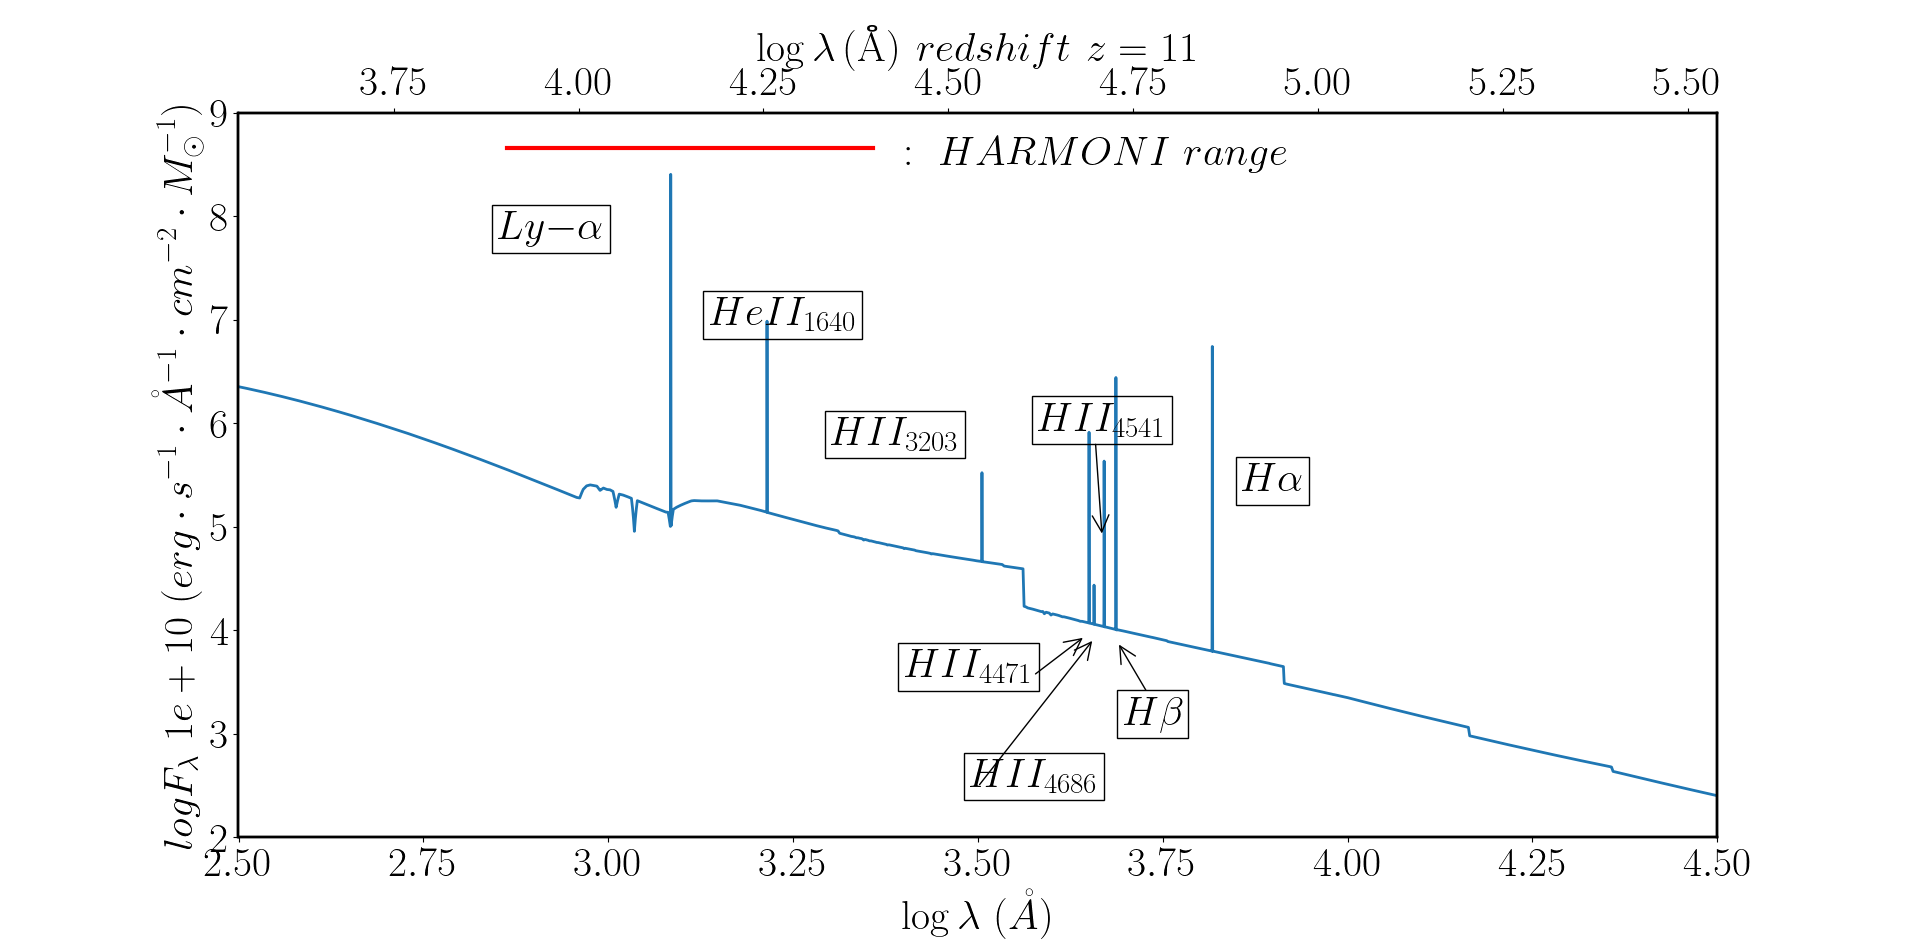
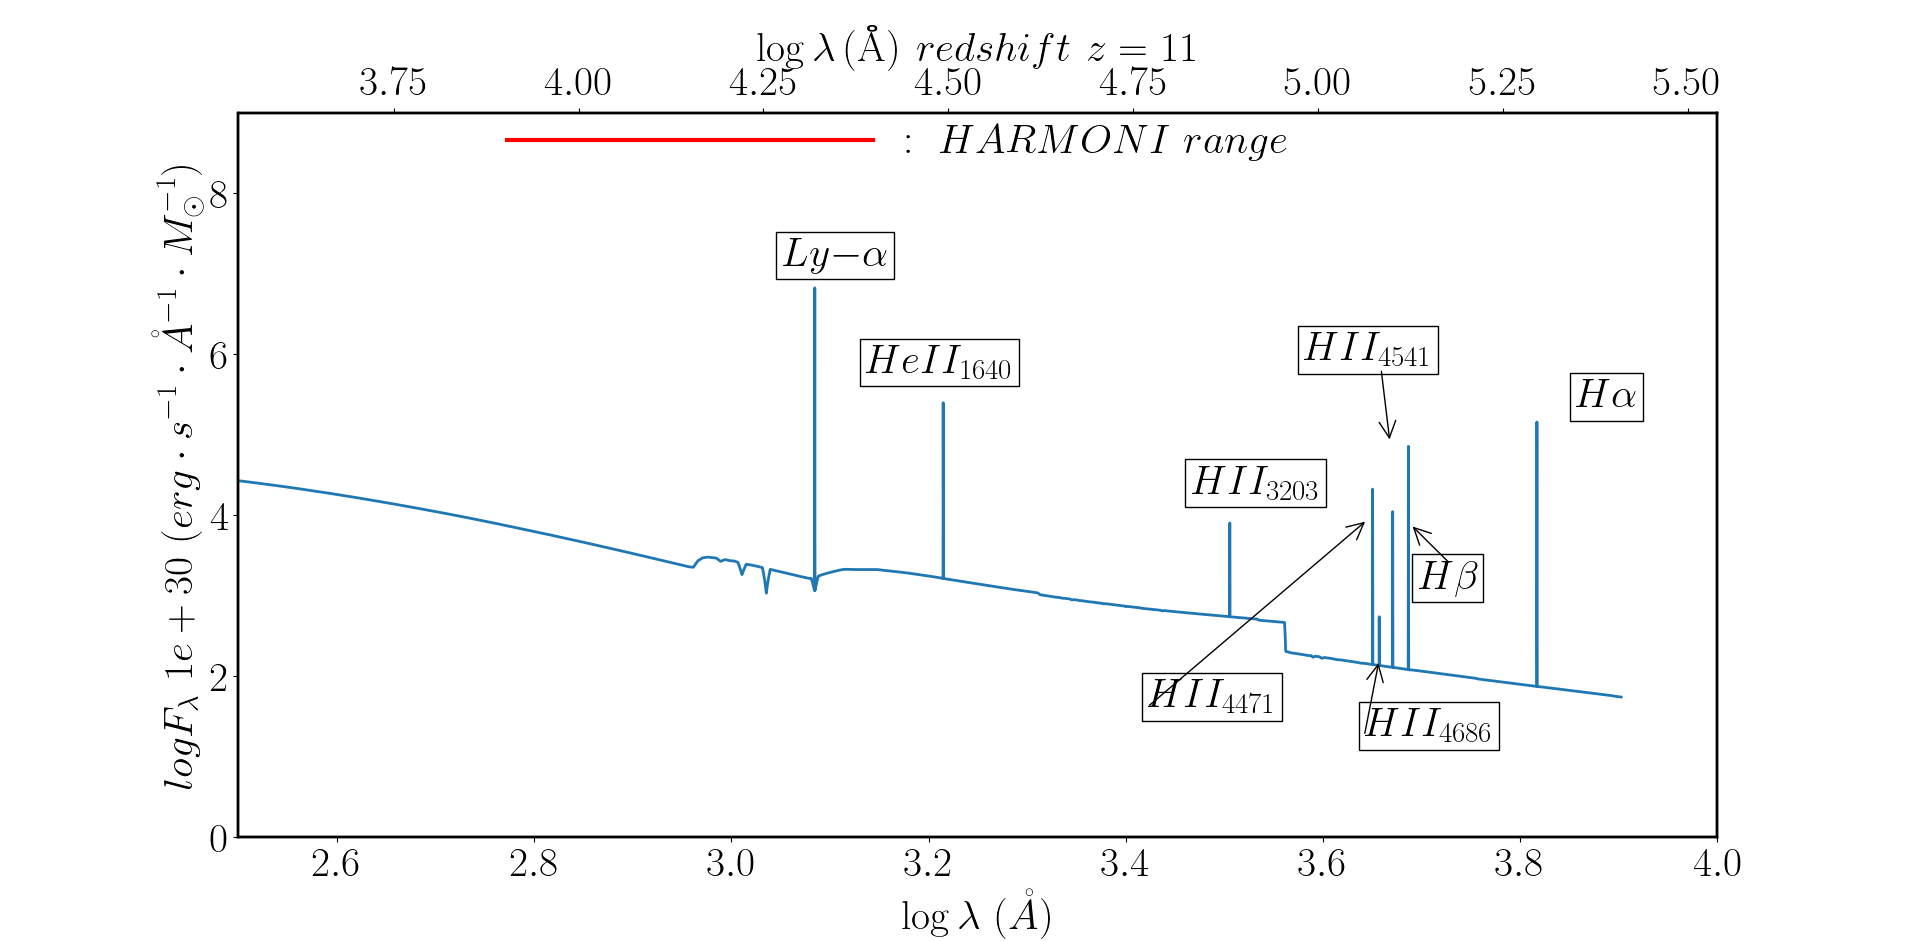
11:38 tuesday
fits done need to sort headers

diff --git a/functions.py b/functions.py
@@ -1,7 +1,7 @@
 # functions.py
 # list of functions used
 
-from modules import np, plt, ScalarMappable, Normalize, ascii, latex, os, cosmo, interpolate, mticker, Table
+from modules import np, plt, ScalarMappable, Normalize, ascii, latex, os, cosmo, interpolate, mticker, Table, fits
 from constants import T_sun, c_m, T_100M, M_sun_kg, G, kb, c, h, pc, AU, d, R_sun, M_sun
 import plotting_params
 
@@ -148,12 +148,12 @@ def blackbody(T):
 
 def interpolate_SED(SED_data, n, z, R):
     if n == 'single':
-        mask = (SED_data["wavelengths"] < 8000)
+        mask = (SED_data["wavelengths"] > 1000) & (SED_data['wavelengths'] < 1800)
         y = SED_data["SED_flux"][mask]
         x = SED_data["wavelengths"][mask]
         resolution = 1500/R
         print(f"Resolution: {resolution}")
-        sampling = resolution/(5)
+        sampling = resolution/(2.3)
         print(f"Sampling pre redshift: {sampling}")
         x_new = np.arange(min(x), max(x), sampling)
         interpolated_wavelengths = interpolate.interp1d(x,y)
@@ -261,44 +261,7 @@ def gaussian_profile(M, R, wavelength, age_log, H_beta, H_lya, H_alpha, H_beta_,
     plt.plot(wavelength, np.log10(flux_HII_1640) - 30)
     plt.plot(wavelength, np.log10(flux_H_lya) - 30)
     plt.ylim(0,7)
-    plt.show()
-
-
-    sigma_gal = [30000, 150000, 300000]
-    data_ = Table()
-    for i in range(len(sigma_gal)):
-        sigma_line = (sigma_gal[i]/c_m) * np.array(lambda_peak_array)
-        print(f"SIGMA LINE: {sigma_line} Angstrom")
-        H_beta_peak_Intensity = (H_beta[0])#/(4*np.pi*(d**2))
-        HeII_1640_peak_intensity = (HeII_1640[0])#/(4*np.pi*(d**2))
-        print(f"H_1640_peak_Intensity: {HeII_1640_peak_intensity}")
-        flux_HII_1640 = []
-        for j in range(len(wavelength)):
-            exponential_5 = np.exp(((wavelength[j] - lambda_peak_array[4])**2)/(-2*(sigma_line[4])**2))
-            flux_H_1640_1 = ((HeII_1640_peak_intensity/(np.sqrt(2*np.pi)*sigma_line[4])) * exponential_5)
-            flux_HII_1640.append(flux_H_1640_1)
-        data_[f'sigma_{sigma_gal[i]}']= np.array(flux_HII_1640)
-    data_['wavelength'] = wavelength
-    ascii.write(data_, f'sigma_check_F_{HeII_1640_peak_intensity}.dat', format='basic', overwrite=True)
-    print("saved file")
-    data_ = Table.read('sigma_check.dat', format='ascii.basic')
-    plt.figure(figsize=(8,5))
-    plt.plot(wavelength, data_['sigma_30000'])
-    plt.plot(wavelength, data_['sigma_150000'])
-    plt.plot(wavelength, data_['sigma_300000'])
-    plt.xlabel('Wavelength [Å]', fontsize=12)
-    plt.ylabel('Flux [arbitrary units]', fontsize=12)
-    plt.title('Gaussian Line Profiles for Different Velocity Dispersions', fontsize=13)
-    plt.legend()
-    plt.grid(True, alpha=0.3)
-    plt.tight_layout()
-    plt.show()
-    
-
-    
-
-
-    
+    plt.show()    
     return flux_H_beta, flux_H_lya, flux_H_alpha, flux_H_4471, flux_HII_1640, flux_HII_3203, flux_HII_4541, flux_HII_4686
 
 
@@ -327,23 +290,23 @@ def plot_full_spectra(n, total_flux_lines, SED_data, wavelength_z, z):
         fig, ax1 = plt.subplots()
         ax1.plot(np.log10(wavelength), np.log10(total_flux_lines) - 30, lw = 2)
         ax1.set_ylabel("logs")
-        ax1.set_xlim(2.5, 4.5)
-        ax1.set_ylim(2,9)
+        ax1.set_xlim(2.5, 4)
+        ax1.set_ylim(0,9)
         ax1.set_xlabel("\(\log{\lambda}\ (\mathring{A})\)")
-        ax1.set_ylabel("\(logF_{\lambda}\ 1e+10\ (erg \cdot s^{-1} \cdot \mathring{A}^{-1} \cdot cm^{-2} \cdot M_{\odot}^{-1})\)")
+        ax1.set_ylabel("\(logF_{\lambda}\ 1e+30\ (erg \cdot s^{-1} \cdot \mathring{A}^{-1} \cdot M_{\odot}^{-1})\)")
         ax1.text(3.696,0.542 + 2.55, r'\(H\)$\beta$', bbox=dict(edgecolor='black', fc = 'None'))
         ax1.annotate("",xy=(3.689,1.337 + 2.55), xycoords='data', xytext=(3.729,0.852 + 2.55), textcoords = 'data', arrowprops = dict(arrowstyle="->", connectionstyle='arc3'))
-        ax1.text(2.85,5.23 + 2.55,r'\(Ly-\)$\alpha$',bbox=dict(edgecolor='black', fc = 'None'))
+        ax1.text(3.051,7.1,r'\(Ly-\)$\alpha$',bbox=dict(edgecolor='black', fc = 'None'))
         ax1.text(3.856,2.795 + 2.55,r'\(H\)$\alpha$',bbox=dict(edgecolor='black', fc = 'None'))
-        ax1.text(3.4,1 + 2.55,'\(HII_{4471}\)',bbox=dict(edgecolor='black', fc = 'None'))
-        ax1.annotate("",xy=(3.645,1.395 + 2.55), xycoords='data', xytext=(3.575,1.014 + 2.55), textcoords = 'data', arrowprops = dict(arrowstyle="->", connectionstyle='arc3'))
-        ax1.text(3.136,4.35 + 2.6,'\(HeII_{1640}\)',bbox=dict(edgecolor='black', fc = 'None'))
+        ax1.text(3.422,1.62,'\(HII_{4471}\)',bbox=dict(edgecolor='black', fc = 'None'))
+        ax1.annotate("",xy=(3.645,1.395 + 2.55), xycoords='data', xytext=(3.422,1.62), textcoords = 'data', arrowprops = dict(arrowstyle="->", connectionstyle='arc3'))
+        ax1.text(3.136,5.772,'\(HeII_{1640}\)',bbox=dict(edgecolor='black', fc = 'None'))
         #ax1.annotate("",xy=(3.210, 3.176 + 2.7), xycoords='data', xytext=(3.216,4.227 + 2.55), textcoords = 'data', arrowprops = dict(arrowstyle="->", connectionstyle='arc3'))
-        ax1.text(3.3,5.792,'\(HII_{3203}\)',bbox=dict(edgecolor='black', fc = 'None'))
+        ax1.text(3.466,4.275,'\(HII_{3203}\)',bbox=dict(edgecolor='black', fc = 'None'))
         ax1.text(3.58,3.38 + 2.55,'\(HII_{4541}\)',bbox=dict(edgecolor='black', fc = 'None'))
         ax1.annotate("",xy=(3.668,2.36 + 2.55), xycoords='data', xytext=(3.659,3.275 + 2.55), textcoords = 'data', arrowprops = dict(arrowstyle="->", connectionstyle='arc3'))
-        ax1.text(3.488,-0.06 + 2.55,'\(HII_{4686}\)',bbox=dict(edgecolor='black', fc = 'None'))
-        ax1.annotate("",xy=(3.657,1.37 + 2.55), xycoords='data', xytext=(3.5,-0.06 + 2.55), textcoords = 'data', arrowprops = dict(arrowstyle="->", connectionstyle='arc3'))
+        ax1.text(3.642,1.26,'\(HII_{4686}\)',bbox=dict(edgecolor='black', fc = 'None'))
+        ax1.annotate("",xy=(3.657,2.20), xycoords='data', xytext=(3.642,1.26), textcoords = 'data', arrowprops = dict(arrowstyle="->", connectionstyle='arc3'))
         ax2 = ax1.twiny()
         ax2.plot(np.log10(wavelength_z), total_flux_lines, alpha = 0)
         ax2.set_xlim(3.54, 5.54)
@@ -436,7 +399,7 @@ def plot_spectra_redshifted(flux_z, wavelength_z, flux_zab, LR_IZJ, LR_HK, MR_IZ
     def mag_to_flux(y):
         return magnitudes_to_flux_single((y), mean_lambda)
 
-    ax1.set_ylim(-29.5, -24)
+    ax1.set_ylim(-29.5, -23)
 
     ax2 = ax1.secondary_yaxis('right', functions=(flux_to_mag, mag_to_flux))
 
@@ -536,5 +499,50 @@ def plot_spectra_redshifted(flux_z, wavelength_z, flux_zab, LR_IZJ, LR_HK, MR_IZ
                               transform=fig.transFigure, color='black', lw=1.5, linestyle = '--'))
 
     plt.show()
+
+
+
+def create_data_cube(flux_z, wavelength_z, cube_length, input_scale, SIMPLE, BITPIX,NAXIS,NAXIS1,NAXIS2,NAXIS3,EXTEND,CTYPE1,CTYPE2,CTYPE3,CUNIT1,CUNIT2,CUNIT3,CDELT1,CDELT2,CDELT3,CRPIX3,BUNIT,SPECRES):
+    number_spaxels =int( cube_length / input_scale)
+    wavelength_points = len(wavelength_z)
+    print(f"wavelength points: {wavelength_points}")
+    print(f"number spaxels: {number_spaxels}")
+    print(f"minimum wavelength: {min(wavelength_z)}")
+    flux_z_sqrarcsec = flux_z / (input_scale**2)
+    cube = np.zeros((wavelength_points, number_spaxels, number_spaxels), dtype=np.float32)
+    central_spaxel = number_spaxels // 2
+    print(f"central spaxel: {central_spaxel}")
+    cube[:, central_spaxel, central_spaxel] = flux_z_sqrarcsec.astype(np.float32)
+    hdu = fits.PrimaryHDU(data=cube)
+    hdul = fits.HDUList([hdu])
+    hdul.writeto('test.fits', overwrite = True)
+    header = hdu.header
+    header["SIMPLE"] = SIMPLE
+    header["BITPIX"] = BITPIX
+    header["NAXIS"] = NAXIS
+    header["NAXIS1"] = NAXIS1
+    header["NAXIS2"] = NAXIS2
+    header["NAXIS3"] = NAXIS3
+    header["EXTEND"] = EXTEND
+    header["CTYPE1"] = CTYPE1
+    header["CTYPE2"] = CTYPE2
+    header["CTYPE3"] = CTYPE3
+    header["CUNIT1"] = CUNIT1
+    header["CUNIT2"] = CUNIT2
+    header["CUNIT3"] = CUNIT3
+    header["CDELT1"] = CDELT1
+    header["CDELT2"] = CDELT2
+    header["CDELT3"] = CDELT3
+    header["CRPIX3"] = CRPIX3
+    header["BUNIT"] = BUNIT
+    header["SPECRES"] = SPECRES
+    header.tofile("test.fits", overwrite = True)
+    #hdu.header()
+    
+    
+    
+    
+    
+    
     
 

diff --git a/main.py b/main.py
@@ -1,10 +1,10 @@
 # main.py
 
-from modules import np, plt, ScalarMappable, Normalize, ascii, latex, os, mticker, Table
+from modules import np, plt, ScalarMappable, Normalize, ascii, latex, os, mticker, Table, fits
 from constants import T_sun, c_m, T_100M, M_sun_kg, G, kb, c, h, pc, AU, d, R_sun, M_sun
-from variables import ttt, imf, mup, low, sfh, n_single, n_array, M_gauss, d_gauss, save, n, LR_IZJ_min, LR_IZJ_max,LR_HK_min,LR_HK_max,MR_IZ_min,MR_IZ_max,MR_J_min,MR_J_max,MR_H_min,MR_H_max,MR_K_min,MR_K_max, z, R
+from variables import ttt, imf, mup, low, sfh, n_single, n_array, M_gauss, d_gauss, save, n, LR_IZJ_min, LR_IZJ_max,LR_HK_min,LR_HK_max,MR_IZ_min,MR_IZ_max,MR_J_min,MR_J_max,MR_H_min,MR_H_max,MR_K_min,MR_K_max, z, R, cube_length, input_scale,SIMPLE, BITPIX,NAXIS,NAXIS1,NAXIS2,NAXIS3,EXTEND,CTYPE1,CTYPE2,CTYPE3,CUNIT1,CUNIT2,CUNIT3,CDELT1,CDELT2,CDELT3,CRPIX3,BUNIT,SPECRES
 import plotting_params
-from functions import import_data, sun_type_star, blackbody, plot, import_lines, gaussian_profile, full_spectra, plot_full_spectra, redshifting, AB_magnitude_conversion, import_harmoni_res, plot_spectra_redshifted, interpolate_SED, import_opacity, import_OH
+from functions import import_data, sun_type_star, blackbody, plot, import_lines, gaussian_profile, full_spectra, plot_full_spectra, redshifting, AB_magnitude_conversion, import_harmoni_res, plot_spectra_redshifted, interpolate_SED, import_opacity, import_OH, create_data_cube
 
 SED_data = import_data(n, save, ttt, imf, mup, low, sfh, n_single, n_array)
 opacity_data = import_opacity()
@@ -14,7 +14,7 @@ lambda_sun, B, log_B = sun_type_star()
 
 lambda_blackbody, blackbody, log_blackbody = blackbody(T_100M)
 
-plot(n, SED_data, lambda_sun, B, log_B, lambda_blackbody, blackbody, log_blackbody)
+#plot(n, SED_data, lambda_sun, B, log_B, lambda_blackbody, blackbody, log_blackbody)
 
 SED_data = interpolate_SED(SED_data, n, z, R)
 
@@ -26,7 +26,7 @@ total_flux_lines = full_spectra(n, SED_data["wavelengths"], flux_H_beta, flux_H_
 
 flux_z, wavelength_z = redshifting(n,total_flux_lines, SED_data, z)
 
-plot_full_spectra(n, total_flux_lines, SED_data, wavelength_z, z)
+#plot_full_spectra(n, total_flux_lines, SED_data, wavelength_z, z)
 
 
 
@@ -34,5 +34,7 @@ flux_zab = AB_magnitude_conversion(flux_z, wavelength_z)
 
 LR_IZJ, LR_HK, MR_IZ, MR_J, MR_H, MR_K = import_harmoni_res(LR_IZJ_min, LR_IZJ_max,LR_HK_min,LR_HK_max,MR_IZ_min,MR_IZ_max,MR_J_min,MR_J_max,MR_H_min,MR_H_max,MR_K_min,MR_K_max)
 
-plot_spectra_redshifted(flux_z, wavelength_z, flux_zab, LR_IZJ, LR_HK, MR_IZ, MR_J, MR_H, MR_K, opacity_data, skyline_data, z, R)
+#plot_spectra_redshifted(flux_z, wavelength_z, flux_zab, LR_IZJ, LR_HK, MR_IZ, MR_J, MR_H, MR_K, opacity_data, skyline_data, z, R)
+
+create_data_cube(flux_z, wavelength_z, cube_length, input_scale, SIMPLE, BITPIX,NAXIS,NAXIS1,NAXIS2,NAXIS3,EXTEND,CTYPE1,CTYPE2,CTYPE3,CUNIT1,CUNIT2,CUNIT3,CDELT1,CDELT2,CDELT3,CRPIX3,BUNIT,SPECRES)
 

diff --git a/variables.py b/variables.py
@@ -18,9 +18,33 @@ d_gauss = 100*pc
 
 save = False
 n = 'single'
-z = 11
+z = 11.5
 R = 7000
 
+cube_length = 0.3
+input_scale = 1*10**(-3)
+#fits_location =
+
+#### FITS HEADER PARAMETERS ###
+SIMPLE =' T / conforms to FITS standard'
+BITPIX = '-64'
+NAXIS =' 3'
+NAXIS1 = '300'
+NAXIS2 = '300'
+NAXIS3 = '8480'
+EXTEND = 'T'
+CTYPE1 = 'RA'
+CTYPE2 = 'DEC'
+CTYPE3 = 'wavelength'
+CUNIT1 = 'mas'
+CUNIT2 = 'mas'
+CUNIT3 = 'angstrom'
+CDELT1 = '1'
+CDELT2 = '1'
+CDELT3 = '0.093'
+CRPIX3 = '12562.5'
+BUNIT = 'erg/s/cm2/AA/arcsec2'
+SPECRES = '1.1625'
 
 
 

diff --git a/modules.py b/modules.py
@@ -11,4 +11,5 @@ from astropy.cosmology import WMAP9 as cosmo
 from scipy import interpolate
 import matplotlib.ticker as mticker
 from astropy.table import Table
+from astropy.io import fits
 
